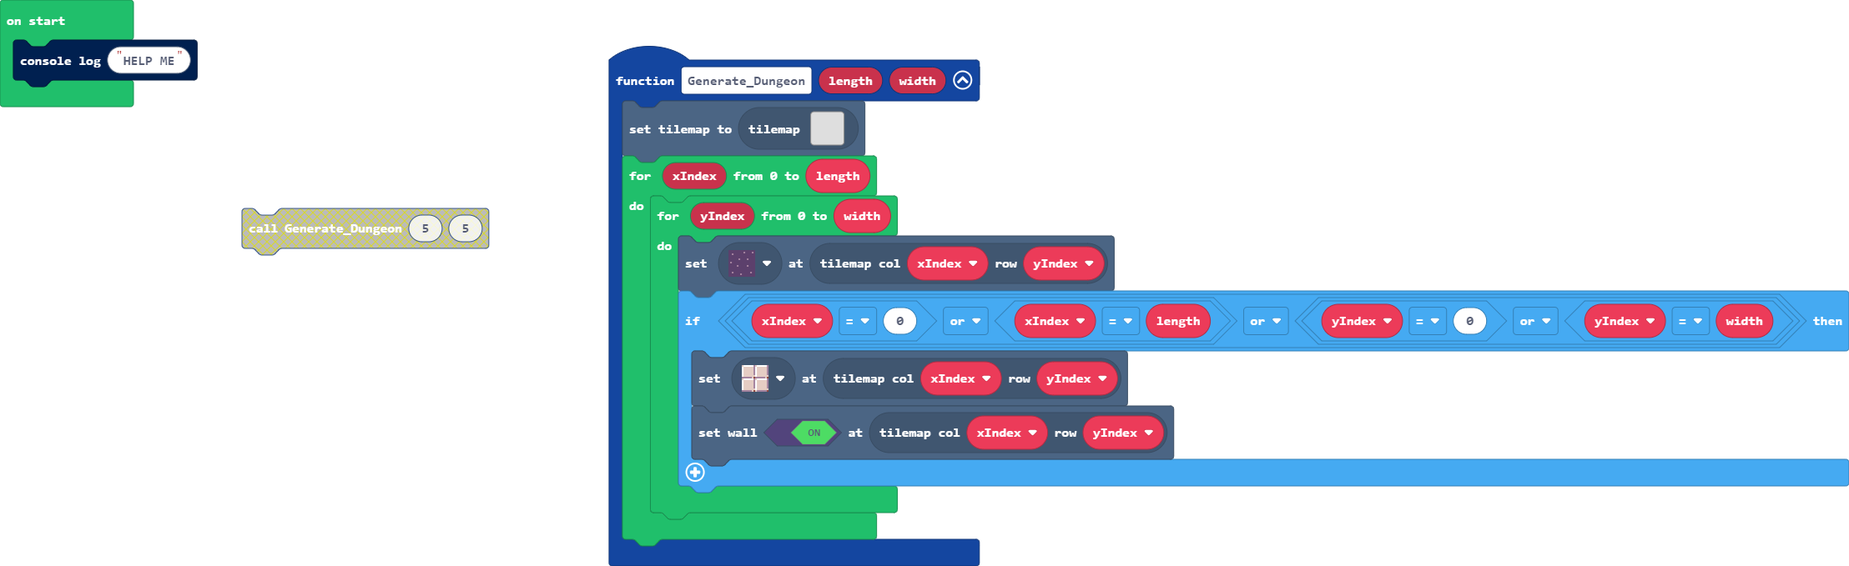
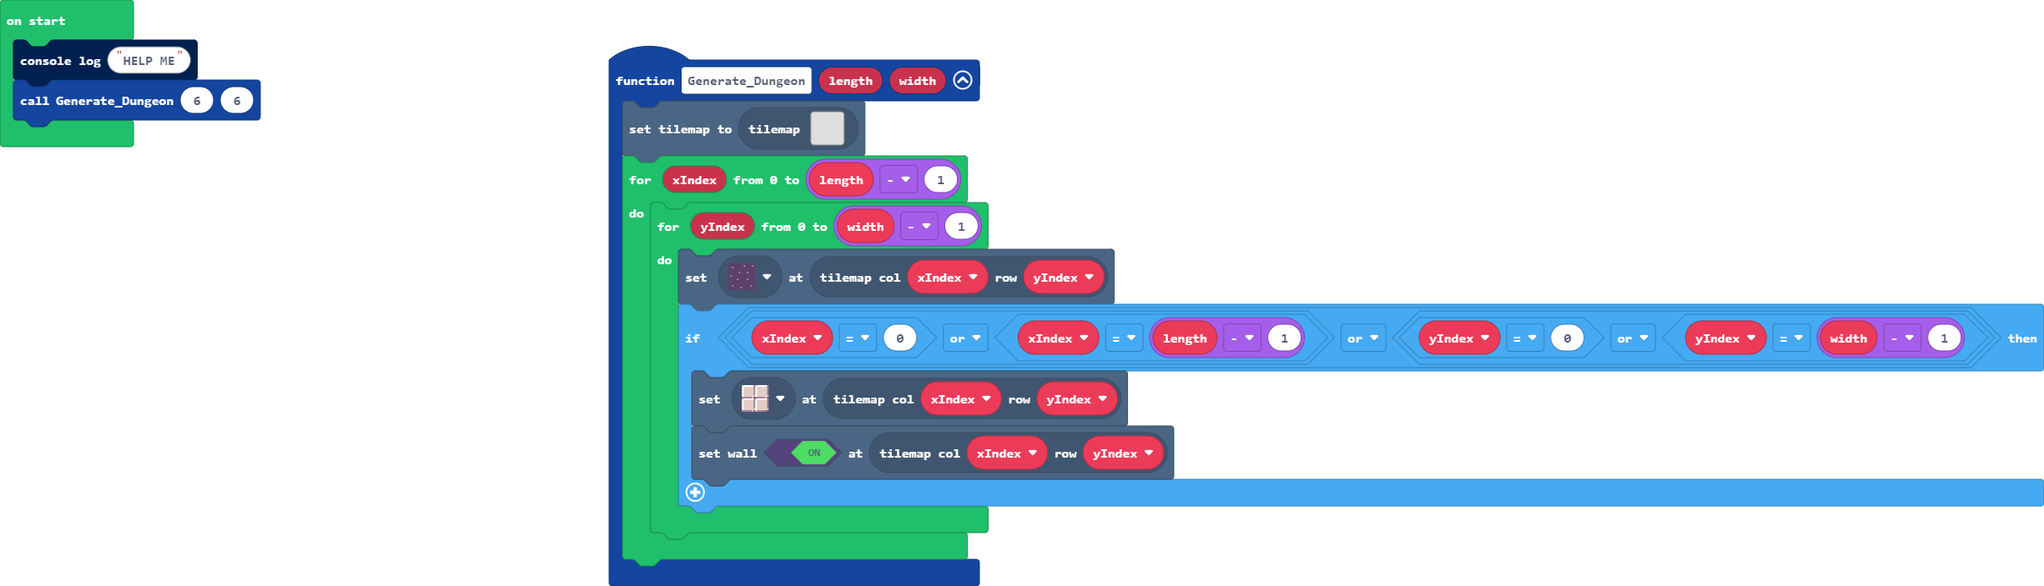
Fixed math error

Changed region(s): [[0.1245, 0.0619, 1.0, 1.0], [0.0, 0.0, 0.1557, 0.2784]]

diff --git a/tilemap.g.ts b/tilemap.g.ts
@@ -2,9 +2,68 @@
 namespace myTiles {
     //% fixedInstance jres blockIdentity=images._tile
     export const transparency16 = image.ofBuffer(hex``);
+    //% fixedInstance jres blockIdentity=images._tile
+    export const tile1 = image.ofBuffer(hex``);
 
     helpers._registerFactory("tilemap", function(name: string) {
         switch(helpers.stringTrim(name)) {
+            case "level2":
+            case "level2":return tiles.createTilemap(hex`1000100000000000000000000000000000000000000000000000000000000000000000000000000000000000000000000000000000000000000000000000000000000000000000000000000000000000000000000000000000000000000000000000000000000000000000000000000000000000000000000000000000000000000000000000000000000000000000000000000000000000000000000000000000000000000000000000000000000000000000000000000000000000000000000000000000000000000000000000000000000000000000000000000000000000000000000000000000000000000000000000000000000000000000000000000000000000`, img`
+. . . . . . . . . . . . . . . . 
+. . . . . . . . . . . . . . . . 
+. . . . . . . . . . . . . . . . 
+. . . . . . . . . . . . . . . . 
+. . . . . . . . . . . . . . . . 
+. . . . . . . . . . . . . . . . 
+. . . . . . . . . . . . . . . . 
+. . . . . . . . . . . . . . . . 
+. . . . . . . . . . . . . . . . 
+. . . . . . . . . . . . . . . . 
+. . . . . . . . . . . . . . . . 
+. . . . . . . . . . . . . . . . 
+. . . . . . . . . . . . . . . . 
+. . . . . . . . . . . . . . . . 
+. . . . . . . . . . . . . . . . 
+. . . . . . . . . . . . . . . . 
+`, [myTiles.transparency16], TileScale.Sixteen);
+            case "level3":
+            case "level3":return tiles.createTilemap(hex`1000100000010101010101010101010101000000000100000000000000000000010000000001000000000000000000000100000000010000000000000000000001000000000100000000000000000000010000000001000000000000000000000100000000010000000000000000000001000000000100000000000000000000010000000001000000000000000000000100000000010000000000000000000001000000000100000000000000000000010000000001000000000000000000000100000000010000000000000000000001000000000100000000000000000000010000000001000000000000000000000100000000010101010101010101010101000000`, img`
+. . . . . . . . . . . . . . . . 
+. . . . . . . . . . . . . . . . 
+. . . . . . . . . . . . . . . . 
+. . . . . . . . . . . . . . . . 
+. . . . . . . . . . . . . . . . 
+. . . . . . . . . . . . . . . . 
+. . . . . . . . . . . . . . . . 
+. . . . . . . . . . . . . . . . 
+. . . . . . . . . . . . . . . . 
+. . . . . . . . . . . . . . . . 
+. . . . . . . . . . . . . . . . 
+. . . . . . . . . . . . . . . . 
+. . . . . . . . . . . . . . . . 
+. . . . . . . . . . . . . . . . 
+. . . . . . . . . . . . . . . . 
+. . . . . . . . . . . . . . . . 
+`, [myTiles.transparency16,sprites.dungeon.floorLight0], TileScale.Sixteen);
+            case "level4":
+            case "level4":return tiles.createTilemap(hex`1000100000000000000000000000000000000000000000000000000000000000000000000000000000000000000000000000000000000000000000000000000000000000000000000000000000000000000000000000000000000000000000000000000000000000000000000000000000000000000000000000000000000000000000000000000000000000000000000000000000000000000000000000000000000000000000000000000000000000000000000000000000000000000000000000000000000000000000000000000000000000000000000000000000000000000000000000000000000000000000000000000000000000000000000000000000000000`, img`
+. . . . . . . . . . . . . . . . 
+. . . . . . . . . . . . . . . . 
+. . . . . . . . . . . . . . . . 
+. . . . . . . . . . . . . . . . 
+. . . . . . . . . . . . . . . . 
+. . . . . . . . . . . . . . . . 
+. . . . . . . . . . . . . . . . 
+. . . . . . . . . . . . . . . . 
+. . . . . . . . . . . . . . . . 
+. . . . . . . . . . . . . . . . 
+. . . . . . . . . . . . . . . . 
+. . . . . . . . . . . . . . . . 
+. . . . . . . . . . . . . . . . 
+. . . . . . . . . . . . . . . . 
+. . . . . . . . . . . . . . . . 
+. . . . . . . . . . . . . . . . 
+`, [myTiles.transparency16], TileScale.Sixteen);
             case "level1":
             case "level1":return tiles.createTilemap(hex`6400640000000000000000000000000000000000000000000000000000000000000000000000000000000000000000000000000000000000000000000000000000000000000000000000000000000000000000000000000000000000000000000000000000000000000000000000000000000000000000000000000000000000000000000000000000000000000000000000000000000000000000000000000000000000000000000000000000000000000000000000000000000000000000000000000000000000000000000000000000000000000000000000000000000000000000000000000000000000000000000000000000000000000000000000000000000000000000000000000000000000000000000000000000000000000000000000000000000000000000000000000000000000000000000000000000000000000000000000000000000000000000000000000000000000000000000000000000000000000000000000000000000000000000000000000000000000000000000000000000000000000000000000000000000000000000000000000000000000000000000000000000000000000000000000000000000000000000000000000000000000000000000000000000000000000000000000000000000000000000000000000000000000000000000000000000000000000000000000000000000000000000000000000000000000000000000000000000000000000000000000000000000000000000000000000000000000000000000000000000000000000000000000000000000000000000000000000000000000000000000000000000000000000000000000000000000000000000000000000000000000000000000000000000000000000000000000000000000000000000000000000000000000000000000000000000000000000000000000000000000000000000000000000000000000000000000000000000000000000000000000000000000000000000000000000000000000000000000000000000000000000000000000000000000000000000000000000000000000000000000000000000000000000000000000000000000000000000000000000000000000000000000000000000000000000000000000000000000000000000000000000000000000000000000000000000000000000000000000000000000000000000000000000000000000000000000000000000000000000000000000000000000000000000000000000000000000000000000000000000000000000000000000000000000000000000000000000000000000000000000000000000000000000000000000000000000000000000000000000000000000000000000000000000000000000000000000000000000000000000000000000000000000000000000000000000000000000000000000000000000000000000000000000000000000000000000000000000000000000000000000000000000000000000000000000000000000000000000000000000000000000000000000000000000000000000000000000000000000000000000000000000000000000000000000000000000000000000000000000000000000000000000000000000000000000000000000000000000000000000000000000000000000000000000000000000000000000000000000000000000000000000000000000000000000000000000000000000000000000000000000000000000000000000000000000000000000000000000000000000000000000000000000000000000000000000000000000000000000000000000000000000000000000000000000000000000000000000000000000000000000000000000000000000000000000000000000000000000000000000000000000000000000000000000000000000000000000000000000000000000000000000000000000000000000000000000000000000000000000000000000000000000000000000000000000000000000000000000000000000000000000000000000000000000000000000000000000000000000000000000000000000000000000000000000000000000000000000000000000000000000000000000000000000000000000000000000000000000000000000000000000000000000000000000000000000000000000000000000000000000000000000000000000000000000000000000000000000000000000000000000000000000000000000000000000000000000000000000000000000000000000000000000000000000000000000000000000000000000000000000000000000000000000000000000000000000000000000000000000000000000000000000000000000000000000000000000000000000000000000000000000000000000000000000000000000000000000000000000000000000000000000000000000000000000000000000000000000000000000000000000000000000000000000000000000000000000000000000000000000000000000000000000000000000000000000000000000000000000000000000000000000000000000000000000000000000000000000000000000000000000000000000000000000000000000000000000000000000000000000000000000000000000000000000000000000000000000000000000000000000000000000000000000000000000000000000000000000000000000000000000000000000000000000000000000000000000000000000000000000000000000000000000000000000000000000000000000000000000000000000000000000000000000000000000000000000000000000000000000000000000000000000000000000000000000000000000000000000000000000000000000000000000000000000000000000000000000000000000000000000000000000000000000000000000000000000000000000000000000000000000000000000000000000000000000000000000000000000000000000000000000000000000000000000000000000000000000000000000000000000000000000000000000000000000000000000000000000000000000000000000000000000000000000000000000000000000000000000000000000000000000000000000000000000000000000000000000000000000000000000000000000000000000000000000000000000000000000000000000000000000000000000000000000000000000000000000000000000000000000000000000000000000000000000000000000000000000000000000000000000000000000000000000000000000000000000000000000000000000000000000000000000000000000000000000000000000000000000000000000000000000000000000000000000000000000000000000000000000000000000000000000000000000000000000000000000000000000000000000000000000000000000000000000000000000000000000000000000000000000000000000000000000000000000000000000000000000000000000000000000000000000000000000000000000000000000000000000000000000000000000000000000000000000000000000000000000000000000000000000000000000000000000000000000000000000000000000000000000000000000000000000000000000000000000000000000000000000000000000000000000000000000000000000000000000000000000000000000000000000000000000000000000000000000000000000000000000000000000000000000000000000000000000000000000000000000000000000000000000000000000000000000000000000000000000000000000000000000000000000000000000000000000000000000000000000000000000000000000000000000000000000000000000000000000000000000000000000000000000000000000000000000000000000000000000000000000000000000000000000000000000000000000000000000000000000000000000000000000000000000000000000000000000000000000000000000000000000000000000000000000000000000000000000000000000000000000000000000000000000000000000000000000000000000000000000000000000000000000000000000000000000000000000000000000000000000000000000000000000000000000000000000000000000000000000000000000000000000000000000000000000000000000000000000000000000000000000000000000000000000000000000000000000000000000000000000000000000000000000000000000000000000000000000000000000000000000000000000000000000000000000000000000000000000000000000000000000000000000000000000000000000000000000000000000000000000000000000000000000000000000000000000000000000000000000000000000000000000000000000000000000000000000000000000000000000000000000000000000000000000000000000000000000000000000000000000000000000000000000000000000000000000000000000000000000000000000000000000000000000000000000000000000000000000000000000000000000000000000000000000000000000000000000000000000000000000000000000000000000000000000000000000000000000000000000000000000000000000000000000000000000000000000000000000000000000000000000000000000000000000000000000000000000000000000000000000000000000000000000000000000000000000000000000000000000000000000000000000000000000000000000000000000000000000000000000000000000000000000000000000000000000000000000000000000000000000000000000000000000000000000000000000000000000000000000000000000000000000000000000000000000000000000000000000000000000000000000000000000000000000000000000000000000000000000000000000000000000000000000000000000000000000000000000000000000000000000000000000000000000000000000000000000000000000000000000000000000000000000000000000000000000000000000000000000000000000000000000000000000000000000000000000000000000000000000000000000000000000000000000000000000000000000000000000000000000000000000000000000000000000000000000000000000000000000000000000000000000000000000000000000000000000000000000000000000000000000000000000000000000000000000000000000000000000000000000000000000000000000000000000000000000000000000000000000000000000000000000000000000000000000000000000000000000000000000000000000000000000000000000000000000000000000000000000000000000000000000000000000000000000000000000000000000000000000000000000000000000000000000000000000000000000000000000000000000000000000000000000000000000000000000000000000000000000000000000000000000000000000000000000000000000000000000000000000000000000000000000000000000000000000000000000000000000000000000000000000000000000000000000000000000000000000000000000000000000000000000000000000000000000000000000000000000000000000000000000000000000000000000000000000000000000000000000000000000000000000000000000000000000000000000000000000000000000000000000000000000000000000000000000000000000000000000000000000000000000000000000000000000000000000000000000000000000000000000000000000000000000000000000000000000000000000000000000000000000000000000000000000000000000000000000000000000000000000000000000000000000000000000000000000000000000000000000000000000000000000000000000000000000000000000000000000000000000000000000000000000000000000000000000000000000000000000000000000000000000000000000000000000000000000000000000000000000000000000000000000000000000000000000000000000000000000000000000000000000000000000000000000000000000000000000000000000000000000000000000000000000000000000000000000000000000000000000000000000000000000000000000000000000000000000000000000000000000000000000000000000000000000000000000000000000000000000000000000000000000000000000000000000000000000000000000000000000000000000000000000000000000000000000000000000000000000000000000000000000000000000000000000000000000000000000000000000000000000000000000000000000000000000000000000000000000000000000000000000000000000000000000000000000000000000000000000000000000000000000000000000000000000000000000000000000000000000000000000000000000000000000000000000000000000000000000000000000000000000000000000000000000000000000000000000000000000000000000000000000000000000000000000000000000000000000000000000000000000000000000000000000000000000000000000000000000000000000000000000000000000000000000000000000000000000000000000000000000000000000000000000000000000000000000000000000000000000000000000000000000000000000000000000000000000000000000000000000000000000000000000000000000000000000000000000000000000000000000000000000000000000000000000000000000000000000000000000000000000000000000000000000000000000000000000000000000000000000000000000000000000000000000000000000000000000000000000000000000000000000000000000000000000000000000000000000000000000000000000000000000000000000000000000000000000000000000000000000000000000000000000000000000000000000000000000000000000000000000000000000000000000000000000000000000000000000000000000000000000000000000000000000000000000000000000000000000000000000000000000000000000000000000000000000000000000000000000000000000000000000000000000000000000000000000000000000000000000000000000000000000000000000000000000000000000000000000000000000000000000000000000000000000000000000000000000000000000000000000000000000000000000000000000000000000000000000000000000000000000000000000000000000000000000000000000000000000000000000000000000000000000000000000000000000000000000000000000000000000000000000000000000000000000000000000000000000000000000000000000000000000000000000000000000000000000000000000000000000000000000000000000000000000000000000000000000000000000000000000000000000000000000000000000000000000000000000000000000000000000000000000000000000000000000000000000000000000000000000000000000000000000000000000000000000000000000000000000000000000000000000000000000000000000000000000000000000000000000000000000000000000000000000000000000000000000000000000000000000000000000000000000000000000000000000000000000000000000000000000000000000000000000000000000000000000000000000000000000000000000000000000000000000000000000000000000000000000000000000000000000000000000000000000000000000000000000000000000000000000000000000000000000000000000000000000000000000000000000000000000000000000000000000000000000000000000000000000000000000000000000000000000000000000000000000000000000000000000000000000000000000000000000000000000000000000000000000000000000000000000000000000000000000000000000000000000000000000000000000000000000000000000000000000000000000000000000000000000000000000000000000000000000000000000000000000000000000000000000000000000000000000000000000000000000000000000000000000000000000000000000000000000000000000000000000000000000000000000000000000000000000000000000000000000000000000000000000000000000000000000000000000000000000000000000000000000000000000000000000000000000000000000000000000000000000000000000000000000000000000000000000000000000000000000000000000000000000000000000000000000000000000000000000000000000000000000000000000000000000000000000000000000000000000000000000000000000000000000000000000000000000000000000000000000000000000000000000000000000000000000000000000000000000000000000000000000000000000000000000000000000000000000000000000000000000000000000000000000000000000000000000000000000000000000000000000000000000000000000000000000000000000000000000000000000000000000000000000000000000000000000000000000000000000000000000000000000000000000000000000000000000000000000000000000000000000000000000000000000000000000000000000000000000000000000000000000000000000000000000000000000000000000000000000000000000000000000000000000000000000000000000000000000000000000000000000000000000000000000000000000000000000000000000000000000000000000000000000000000000000000000000000000000000000000000000000000000000000000000000000000000000000000000000000000000000000000000000000000000000000000000000000000000000000000000000000000000000000000000000000000000000000000000000000000000000000000000000000000000000000000000000000000000000000000000000000000000000000000000000000000000000000000000000000000000000000000000000000000000000000000000000000000000000000000000000000000000000000000000000000000000000000000000000000000000000000000000000000000000000000000000000000000000000000000000000000000000000000000000000000000000000000000000000000000000000000000000000000000000000000000000000000000000000000000000000000000000000000000000000000000000000000000000000000000000000000000000000000000000000000000000000000000000000000000000000000000000000000000000000000000000000000000000000000000000000000000000000000000000000000000000000000000000000000000000000000000000000000000000000000000000000000000000000000000000000000000000000000000000000000000000000000000000000000000000000000000000000000000000000000000000000000000000000000000000000000000000000000000000000000000000000000000000000000000000000000000000000000000000000000000000000000000000000000000000000000000000000000000000000000000000000000000000000000000000000000000000000000000000000000000000000000000000000000000000000000000000000000000000000000000000000000000000000000000000000000000000000000000000000000000000000000000000000000000000000000000000000000000000000000000000000000000000000000000000000000000000000000000000000000000000000000000000000000000000000000000000000000000000000000000000000000000000000000000000000000000000000000000000000000000000000000000000000000000000000000000000000000000000000000000000000000000000000000000000000000000000000000000000000000000000000000000000000000000000000000000000000000000000000000000000000000000000000000000000000000000000000000000000000000000000000000000000000000000000000000000000000000000000000000000000000000000000000000000000000000000000000000000000000000000000000000000000000000000000000000000000000000000000000000000000000000000000000000000000000000000000000000000000000000000000000000000000000000000000000000000000000000000000000000000000000000000000000000000000000000000000000000000000000000000000000000000000000000000000000000000000000000000000000000000000000000000000000000000000000000000000000000000000000000000000000000000000000000000000000000000000000000000000000000000000000000000000000000000000000000000000000000000000000000000000000000000000000000000000000000000000000000000000000000000000000000000000000000000000000000000000000000000000000000000000000000000000000000000000000000000000000000000000000000000000000000000000000000000000000000000000000000000000000000000000000000000000000000000000000000000000000000000000000000000000000000000000000000000000000000000000000000000000000000000000000000000000000000000000000000000000000000000000000000000000000000000000000000000000000000000000000000000000000000000000000000000000000000000000000000000000000000000000000000000000000000000000000000000000000000000000000000000000000000000000000000000000000000000000000000000000000000000000000000000000000000000000000000000000000000000000000000000000000000000000000000000000000000000000000000000000000000000000000000000000000000000000000000000000000000000000000000000000000000000000000000000000000000000000000000000000000000000000000000000000000000000000000000000000000000000000000000000000000000000000000000000000000000000000000000000000000000000000000000000000000000000000000000000000000000000000000000000000000000000000000000000000000000000000000000000000000000000000000000000000000000000000000000000000000000000000000000000000000000000000000000000000000000000000000000000000000000000000000000000000000000000000000000000000000000000000000000000000000000000000000000000000000000000000000000000000000000000000000000000000000000000000000000000000000000000000000000000000000000000000000000000000000000000000000000000000000000000000000000000000000000000000000000000000000000000000000000000000000000000000000000000000000000000000000000000000000000000000000000000000000000000000000000000000000000000000000000000000000000000000000000000000000000000000000000000000000000000000000000000000000000000000000000000000000000000000000000000000000000000000000000000000000000000000000000000000000000000000000000000000000000000000000000000000000000000000000000000000000000000000000000000000000000000000000000000000000000000000000000000000000000000000000000000000000000000000000000000000000000000000000000000000000000000000000000000000000000000000000000000000000000000000000000000000000000000000000000000000000000000000000000000000000000000000000000000000000000000000000000000000000000000000000000000000000000000000000000000000000000000000000000000000000000000000000000000000000000000000000000000000000000000000000000000000000000000000000000000000000000000000000000000000000000000000000000000000000000000000000000000000000000000000000000000000000000000000000000000000000000000000000000000000000000000000000000000000000000000000000000000000000000000000000000000000000000000000000000000000000000000000000000000000000000000000000000000000000000000000000000000000000000000000000000000000000000000000000000000000000000000000000000000000000000000000000000000000000000000000000000000000000000000000000000000000000000000000000000000000000000000000000000000000000000000000000000000000000000000000000000000000000000000000000000000000000000000000000000000000000000000000000000000000000000000000000000000000000000000000000000000000000000000000000000000000000000000000000000000000000000000000000000000000000000000000000000000000000000000000000000000000000000000000000000000000000000000000000000000000000000000000000000000000000000000000000000000000000000000000000000000000000000000000000000000000000000000000000000000000000000000000000000000000000000000000000000000000000000000000000000000000000000000000000000000000000000000000000000000000000000000000000000000000000000000000000000000000000000000000000000000000000000000000000000000000000000000000000000000000000000000000000000000000000000000000000000000000000000000000000000000000000000000000000000000000000000000000000000000000000000000000000000000000000000000000000000000000000000000000000000000000000000000000000000000000000000000000000000000000000000000000000000000000000000000000000000000000000000000000000000000000000000000000000000000000000000000000000000000000000000000000000000000000000000000000000000000000001020000000000000000000000000000000000000000000000000000000000000000000000000000000000000000000000000000000000000000000000000000000000000000000000000000000000000000000000000000000000000000000000000000`, img`
 ....................................................................................................
@@ -108,63 +167,6 @@ namespace myTiles {
 ....................................................................................................
 ....................................................................................................
 `, [myTiles.transparency16,sprites.dungeon.floorLight0,sprites.dungeon.darkGroundCenter], TileScale.Sixteen);
-            case "level2":
-            case "level2":return tiles.createTilemap(hex`1000100000000000000000000000000000000000000000000000000000000000000000000000000000000000000000000000000000000000000000000000000000000000000000000000000000000000000000000000000000000000000000000000000000000000000000000000000000000000000000000000000000000000000000000000000000000000000000000000000000000000000000000000000000000000000000000000000000000000000000000000000000000000000000000000000000000000000000000000000000000000000000000000000000000000000000000000000000000000000000000000000000000000000000000000000000000000`, img`
-. . . . . . . . . . . . . . . . 
-. . . . . . . . . . . . . . . . 
-. . . . . . . . . . . . . . . . 
-. . . . . . . . . . . . . . . . 
-. . . . . . . . . . . . . . . . 
-. . . . . . . . . . . . . . . . 
-. . . . . . . . . . . . . . . . 
-. . . . . . . . . . . . . . . . 
-. . . . . . . . . . . . . . . . 
-. . . . . . . . . . . . . . . . 
-. . . . . . . . . . . . . . . . 
-. . . . . . . . . . . . . . . . 
-. . . . . . . . . . . . . . . . 
-. . . . . . . . . . . . . . . . 
-. . . . . . . . . . . . . . . . 
-. . . . . . . . . . . . . . . . 
-`, [myTiles.transparency16], TileScale.Sixteen);
-            case "level3":
-            case "level3":return tiles.createTilemap(hex`1000100000010101010101010101010101000000000100000000000000000000010000000001000000000000000000000100000000010000000000000000000001000000000100000000000000000000010000000001000000000000000000000100000000010000000000000000000001000000000100000000000000000000010000000001000000000000000000000100000000010000000000000000000001000000000100000000000000000000010000000001000000000000000000000100000000010000000000000000000001000000000100000000000000000000010000000001000000000000000000000100000000010101010101010101010101000000`, img`
-. . . . . . . . . . . . . . . . 
-. . . . . . . . . . . . . . . . 
-. . . . . . . . . . . . . . . . 
-. . . . . . . . . . . . . . . . 
-. . . . . . . . . . . . . . . . 
-. . . . . . . . . . . . . . . . 
-. . . . . . . . . . . . . . . . 
-. . . . . . . . . . . . . . . . 
-. . . . . . . . . . . . . . . . 
-. . . . . . . . . . . . . . . . 
-. . . . . . . . . . . . . . . . 
-. . . . . . . . . . . . . . . . 
-. . . . . . . . . . . . . . . . 
-. . . . . . . . . . . . . . . . 
-. . . . . . . . . . . . . . . . 
-. . . . . . . . . . . . . . . . 
-`, [myTiles.transparency16,sprites.dungeon.floorLight0], TileScale.Sixteen);
-            case "level4":
-            case "level4":return tiles.createTilemap(hex`1000100000000000000000000000000000000000000000000000000000000000000000000000000000000000000000000000000000000000000000000000000000000000000000000000000000000000000000000000000000000000000000000000000000000000000000000000000000000000000000000000000000000000000000000000000000000000000000000000000000000000000000000000000000000000000000000000000000000000000000000000000000000000000000000000000000000000000000000000000000000000000000000000000000000000000000000000000000000000000000000000000000000000000000000000000000000000`, img`
-. . . . . . . . . . . . . . . . 
-. . . . . . . . . . . . . . . . 
-. . . . . . . . . . . . . . . . 
-. . . . . . . . . . . . . . . . 
-. . . . . . . . . . . . . . . . 
-. . . . . . . . . . . . . . . . 
-. . . . . . . . . . . . . . . . 
-. . . . . . . . . . . . . . . . 
-. . . . . . . . . . . . . . . . 
-. . . . . . . . . . . . . . . . 
-. . . . . . . . . . . . . . . . 
-. . . . . . . . . . . . . . . . 
-. . . . . . . . . . . . . . . . 
-. . . . . . . . . . . . . . . . 
-. . . . . . . . . . . . . . . . 
-. . . . . . . . . . . . . . . . 
-`, [myTiles.transparency16], TileScale.Sixteen);
         }
         return null;
     })
@@ -172,6 +174,8 @@ namespace myTiles {
     helpers._registerFactory("tile", function(name: string) {
         switch(helpers.stringTrim(name)) {
             case "transparency16":return transparency16;
+            case "myTile":
+            case "tile1":return tile1;
         }
         return null;
     })

diff --git a/custom.ts b/custom.ts
@@ -17,11 +17,12 @@ namespace dungeons {
      * @param width how long the dungeon will be, in tiles
      */
     //% block
-    export function GenerateDungeon(length: number, width: number) {
+    export function Generate_Dungeon(length: number, width: number) {
         tiles.setCurrentTilemap(tilemap`level1`)
-        for (let xIndex = 0; xIndex <= length; xIndex++) {
-            for (let yIndex = 0; yIndex <= width; yIndex++) {
-                if (xIndex == 0 || xIndex == length || (yIndex == 0 || yIndex == width)) {
+        for (let xIndex = 0; xIndex <= length - 1; xIndex++) {
+            for (let yIndex = 0; yIndex <= width - 1; yIndex++) {
+                tiles.setTileAt(tiles.getTileLocation(xIndex, yIndex), sprites.dungeon.darkGroundCenter)
+                if (xIndex == 0 || xIndex == length - 1 || (yIndex == 0 || yIndex == width - 1)) {
                     tiles.setTileAt(tiles.getTileLocation(xIndex, yIndex), sprites.dungeon.floorLight0)
                     tiles.setWallAt(tiles.getTileLocation(xIndex, yIndex), true)
                 }

diff --git a/main.ts b/main.ts
@@ -1,9 +1,9 @@
 function Generate_Dungeon (length: number, width: number) {
     tiles.setCurrentTilemap(tilemap`level1`)
-    for (let xIndex = 0; xIndex <= length; xIndex++) {
-        for (let yIndex = 0; yIndex <= width; yIndex++) {
+    for (let xIndex = 0; xIndex <= length - 1; xIndex++) {
+        for (let yIndex = 0; yIndex <= width - 1; yIndex++) {
             tiles.setTileAt(tiles.getTileLocation(xIndex, yIndex), sprites.dungeon.darkGroundCenter)
-            if (xIndex == 0 || xIndex == length || (yIndex == 0 || yIndex == width)) {
+            if (xIndex == 0 || xIndex == length - 1 || (yIndex == 0 || yIndex == width - 1)) {
                 tiles.setTileAt(tiles.getTileLocation(xIndex, yIndex), sprites.dungeon.floorLight0)
                 tiles.setWallAt(tiles.getTileLocation(xIndex, yIndex), true)
             }
@@ -11,3 +11,4 @@ function Generate_Dungeon (length: number, width: number) {
     }
 }
 console.log("HELP ME")
+Generate_Dungeon(6, 6)
